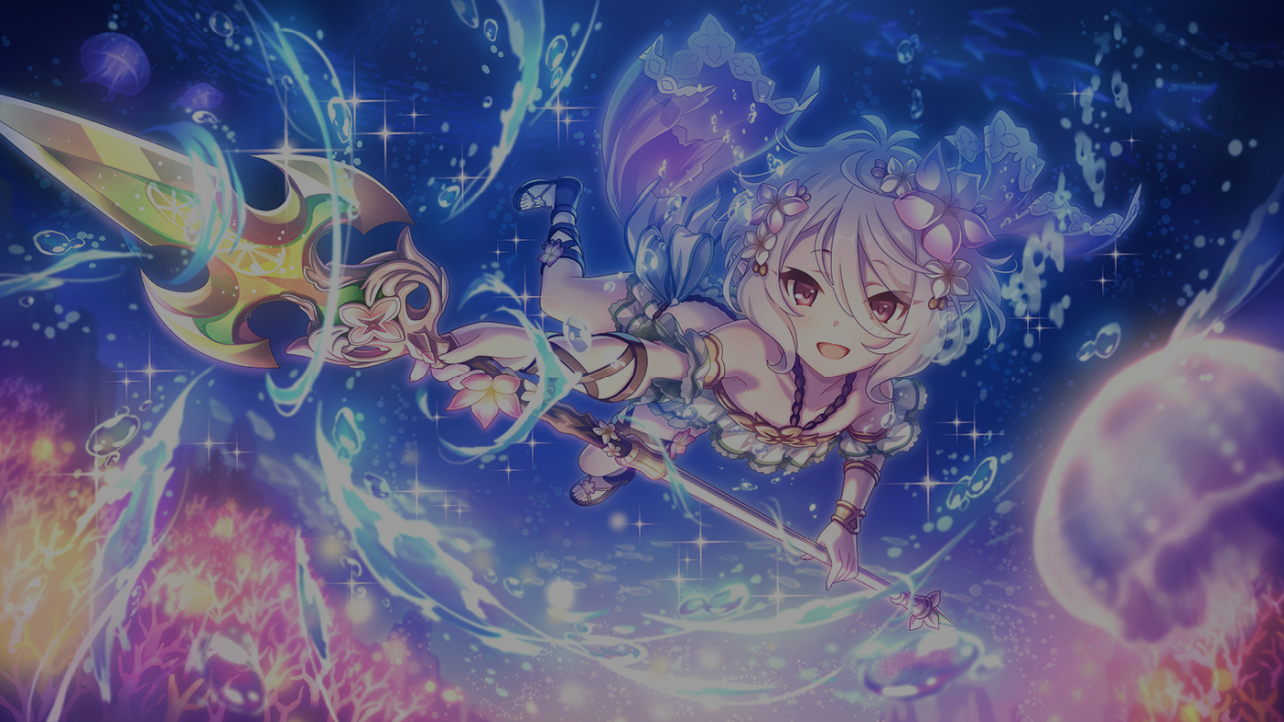
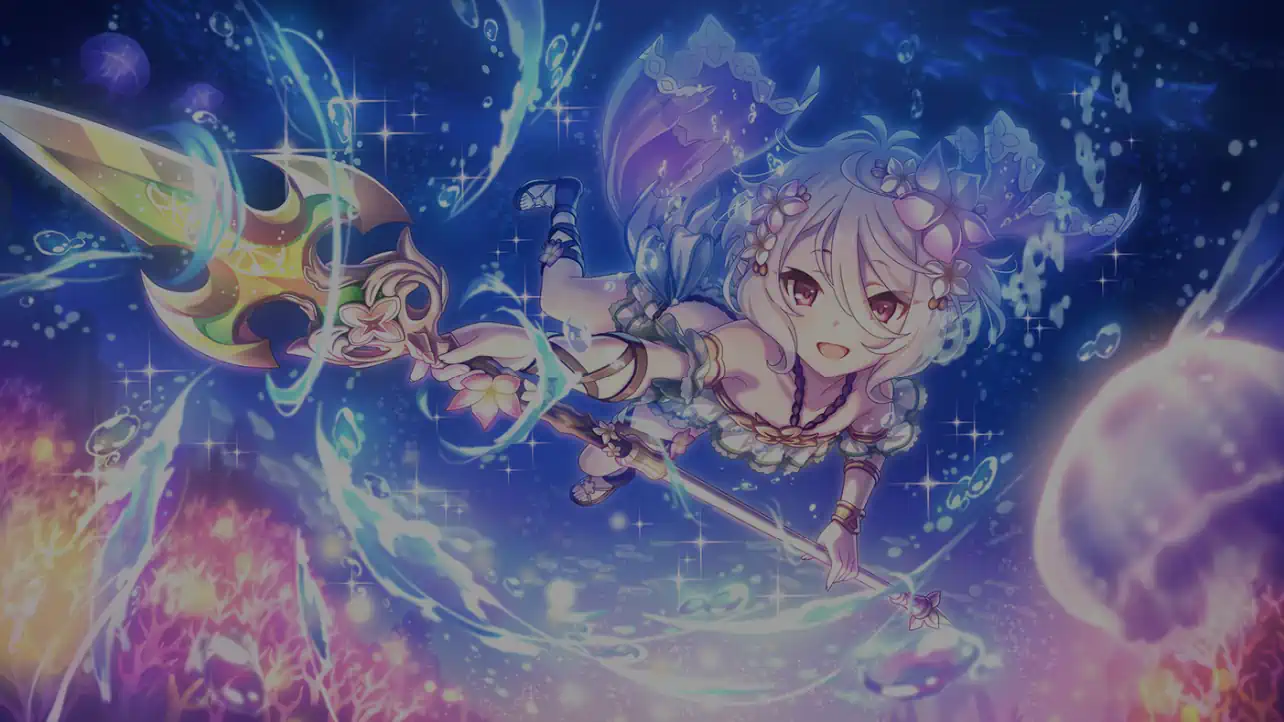
up

diff --git a/offline.html b/offline.html
@@ -1,7 +1,7 @@
 ---
 layout: default
-description: "网络似乎出现了问题 😥"
-header-img: "img/404-bg.jpg"
+description: "ごめんね ユイ 今度はない"
+header-img: "img/404-bg.webp"
 permalink: /offline.html
 ---
 
@@ -13,7 +13,7 @@ permalink: /offline.html
 			<div class="col-lg-8 col-lg-offset-2 col-md-10 col-md-offset-1">
 				<div class="site-heading" id="tag-heading">
 					<h1>Offline</h1>
-					<span class="subheading">{{ page.description }}</span>
+					<span class="subheading"ユイ>{{ page.description }}</span>
 				</div>
 			</div>
 		</div>

diff --git a/404.html b/404.html
@@ -1,7 +1,7 @@
 ---
 layout: default
-description: "你来到了没有知识的荒原 🙊"
-header-img: "img/404-bg.jpg"
+description: "ごめんね ユイ 今度はない"
+header-img: "img/404-bg.webp"
 permalink: /404.html
 ---
 
